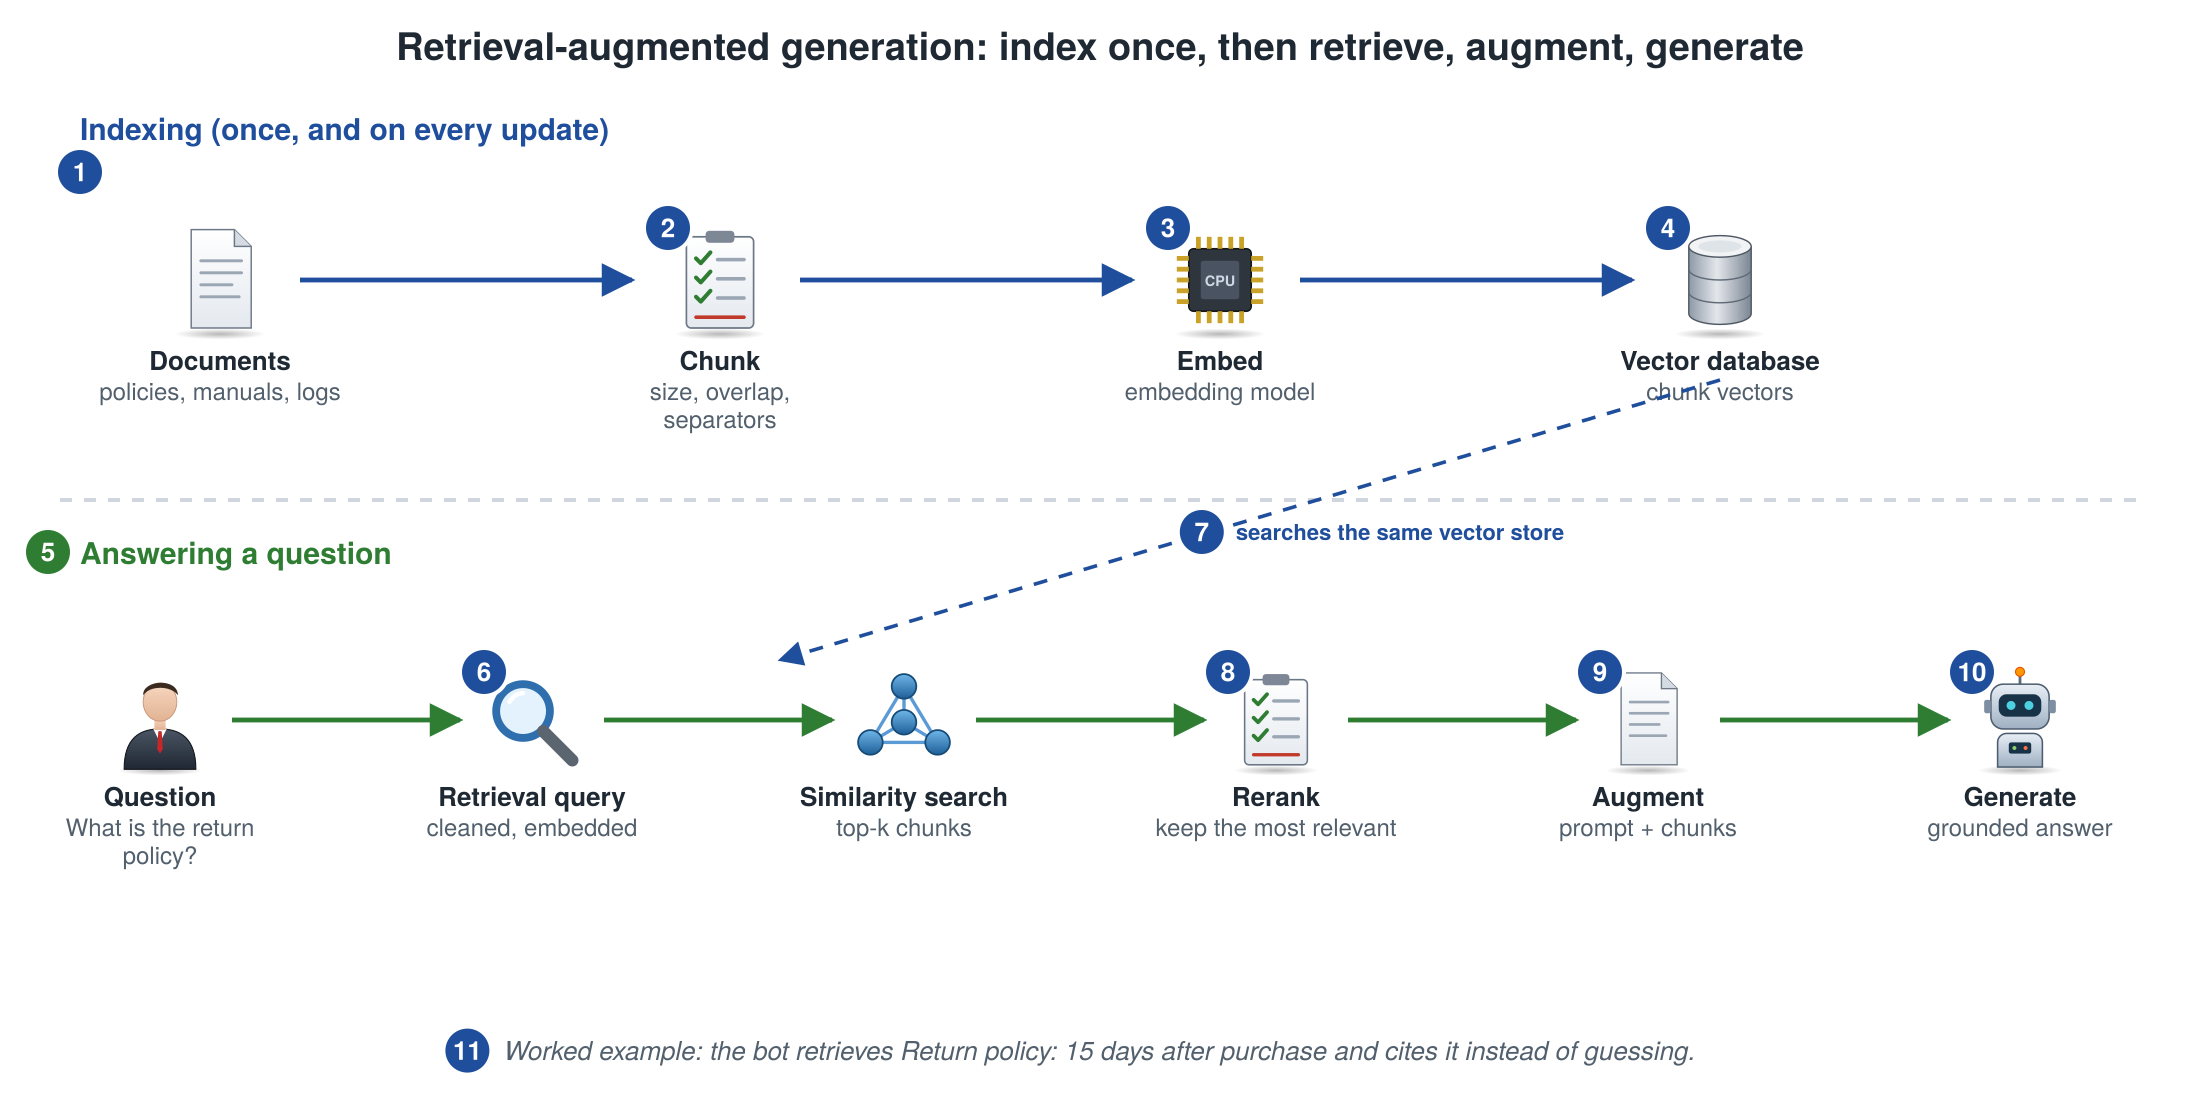
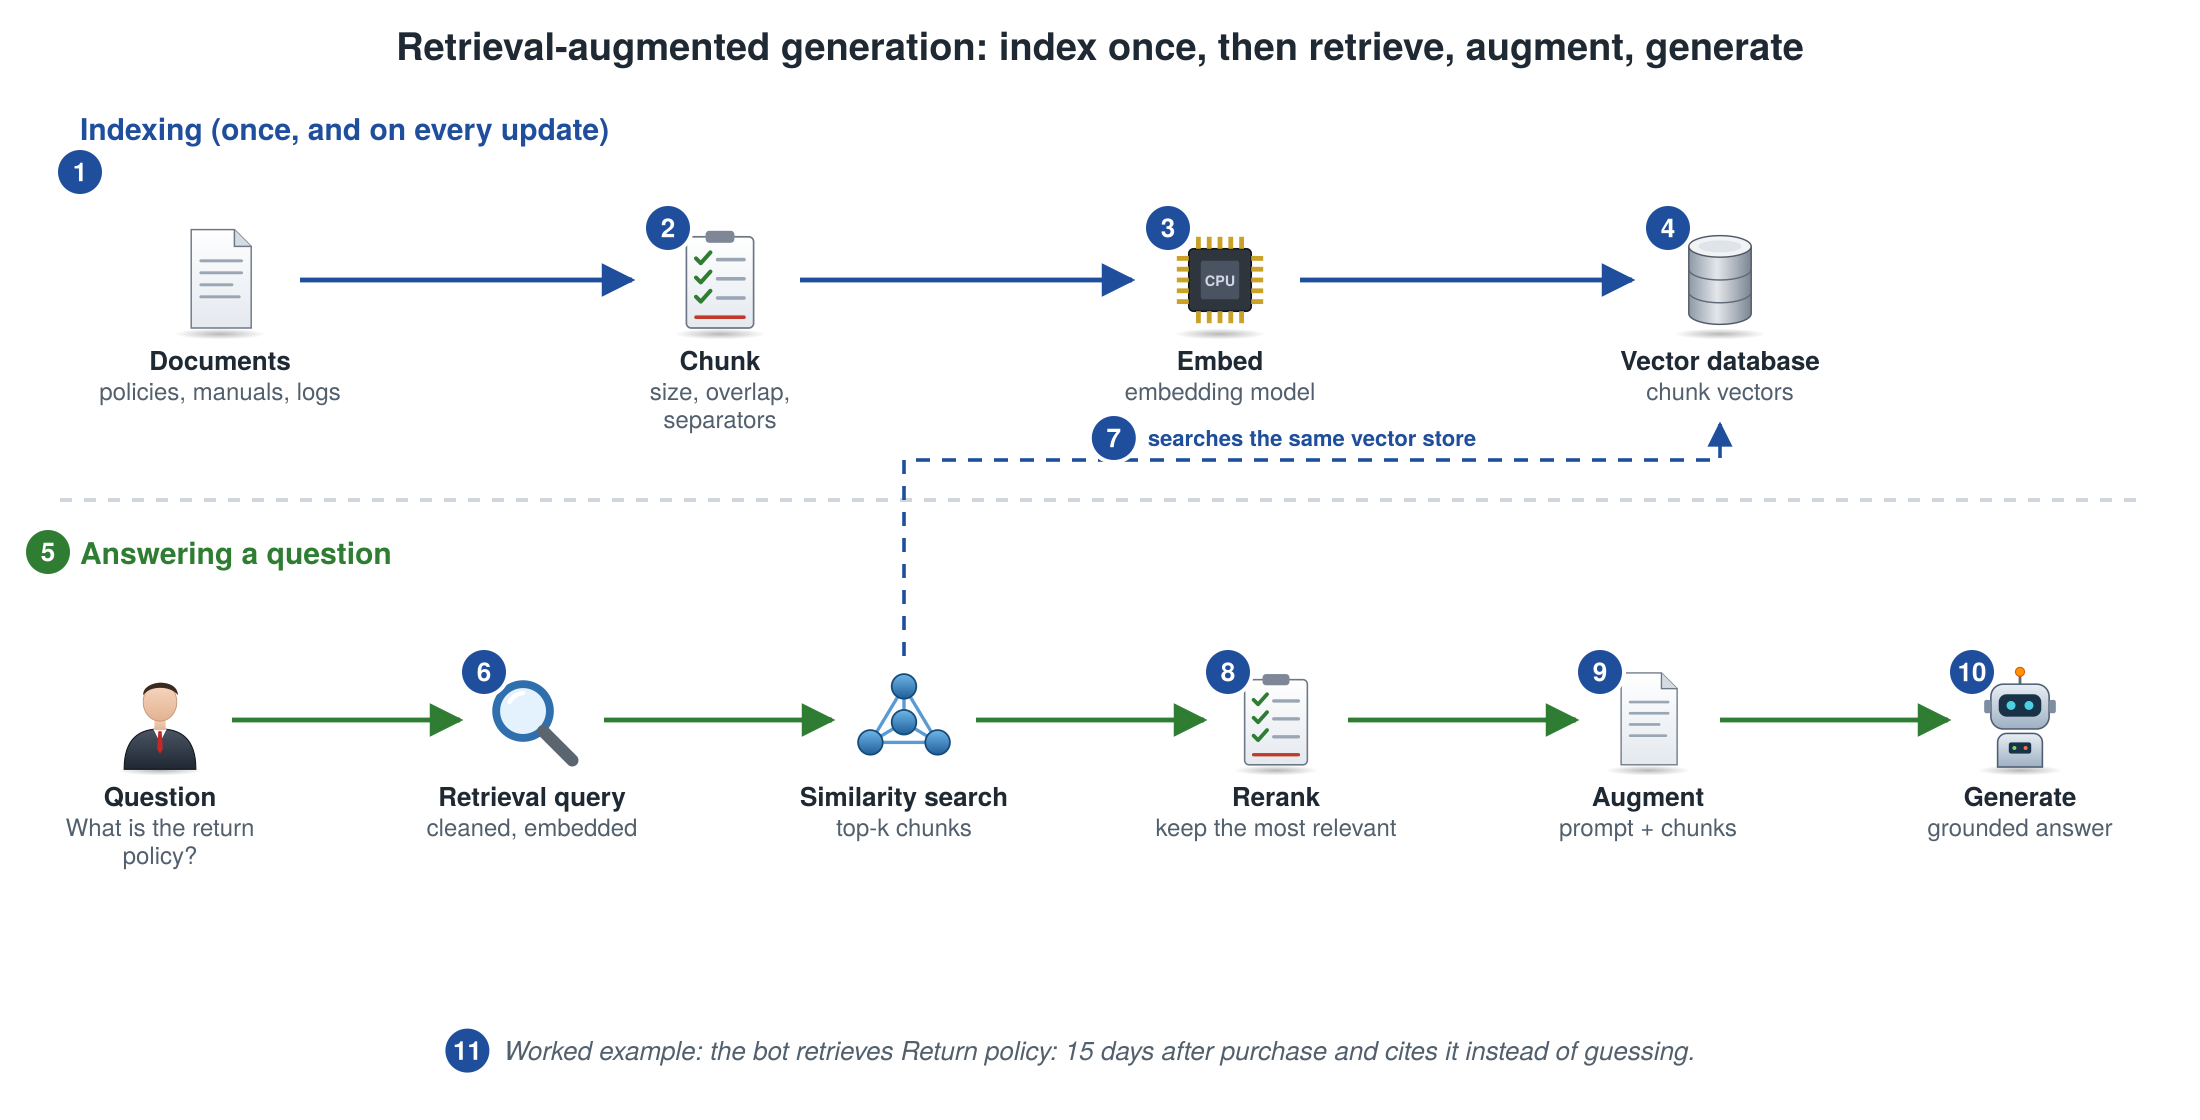
Route the RAG vector-store arrow to its target
The dashed arrow from similarity search started on the chunk vectors
label and crossed its own caption. It now runs at right angles from the
top of similarity search to the vector database, with the label on the
horizontal run. The figure engine now records elements and arrows for
the arrow audit.

Claude-Session: https://claude.ai/code/session_013cDUifwJv1iFP1PFHsLGvp

diff --git a/tools/figures/fig.py b/tools/figures/fig.py
@@ -1,7 +1,7 @@
 """Compose book figures from icons, boxes, arrows, and numbered steps.
 Each element can carry a step number; the SVG builds in step order once,
 like a slide build, and shows everything at once when motion is reduced."""
-import html, math, subprocess
+import os, html, math, subprocess
 import icons
 
 FONT = "Helvetica, Arial, sans-serif"
@@ -32,8 +32,10 @@ class Fig:
         # Every build step carries a numbered badge. Steps the source leaves unnumbered get one
         # at save time, beside the step's first box, label, or icon (see _fill_badges).
         self.anchors, self.badged, self.steps, self.auto_badges = {}, set(), set(), True
+        self.elems, self.arrows = [], []   # every drawn element and arrow, for the arrow audit (ARROW_AUDIT)
 
     def _anchor(self, step, *a):
+        self.elems.append(a)
         if step: self.anchors.setdefault(step, []).append(a)
 
     def _add(self, svg, step):
@@ -49,10 +51,11 @@ class Fig:
         ty = y + size/2 + 15
         if label:
             s += self._text(x, ty, label, label_size, label_color, "bold")
+            self.elems.append(("text", x, ty, label_size, "middle", label, "bold", label_color))
             ty += label_size + 2
         if sub:
             for line in sub.split("\n"):
-                s += self._text(x, ty, line, 12, MUTED); ty += 14
+                s += self._text(x, ty, line, 12, MUTED); self.elems.append(("text", x, ty, 12, "middle", line, "normal", MUTED)); ty += 14
         self._add(s, step)
 
     def _text(self, x, y, t, size=13, color=INK, weight="normal", anchor="middle", italic=False):
@@ -87,6 +90,7 @@ class Fig:
     def arrow(self, pts, label=None, color=INK, step=None, dash=False, width=2.2, label_at=0.5, label_dy=-8,
               label_color=None, both=False, size=13, label_anchor="middle"):
         self.colors.add(color)
+        self.arrows.append({"pts": [list(p) for p in pts], "both": both, "label": label, "step": step})
         segs0 = list(zip(pts, pts[1:])); L0 = [math.dist(a, b) for a, b in segs0]; half, acc0 = sum(L0) / 2, 0
         for (a, b), L in zip(segs0, L0):
             if acc0 + L >= half:
@@ -121,7 +125,26 @@ class Fig:
              + self._text(x, y + 4.6, str(n), 13, "#fff", "bold"))
         self._add(s, step if step is not None else n)
 
-    def raw(self, svg, step=None): self._add(svg, step)
+    def raw(self, svg, step=None):
+        self._raw_shapes(svg)
+        self._add(svg, step)
+
+    def _raw_shapes(self, svg):
+        """Record the plain shapes inside hand-written SVG so the arrow audit can see them."""
+        import re
+        num = lambda tag, k: float(re.search(rf'\b{k}="(-?[\d.]+)"', tag).group(1)) if re.search(rf'\b{k}="(-?[\d.]+)"', tag) else None
+        for tag in re.findall(r'<(?:rect|image|use)\b[^>]*>', svg):
+            x, y, w, h = (num(tag, k) for k in ("x", "y", "width", "height"))
+            if None not in (x, y, w, h): self.elems.append(("rect", x, y, w, h))
+        for tag in re.findall(r'<line\b[^>]*>', svg):
+            v = [num(tag, k) for k in ("x1", "y1", "x2", "y2")]
+            if None not in v: self.elems.append(("line", [[v[0], v[1]], [v[2], v[3]]]))
+        for tag in re.findall(r'<circle\b[^>]*>', svg):
+            cx, cy, r = (num(tag, k) for k in ("cx", "cy", "r"))
+            if None not in (cx, cy, r): self.elems.append(("circ", cx, cy, r * 1.5))
+        for pts in re.findall(r'<poly(?:line|gon)\b[^>]*points="([^"]+)"', svg):
+            xy = [float(v) for v in re.split(r'[ ,]+', pts.strip()) if v]
+            self.elems.append(("line", [[xy[i], xy[i + 1]] for i in range(0, len(xy) - 1, 2)]))
 
     def svg(self):
         markers = "".join(
@@ -179,6 +202,13 @@ class Fig:
 
     def save(self, path_no_ext, png_width=None):
         if self.auto_badges: self._fill_badges()
+        if os.environ.get("ARROW_AUDIT"):
+            import json
+            el = [list(e[:3]) + [e[3], e[4] if len(e) > 4 else None, str(e[5]) if len(e) > 5 else None, e[6] if len(e) > 6 else None]
+                  if e[0] == "text" else list(e[:5]) if e[0] in ("box", "rect") else list(e[:4]) for e in self.elems]
+            with open(os.environ["ARROW_AUDIT"], "a") as fh:
+                fh.write(json.dumps({"fig": os.path.basename(path_no_ext), "w": self.w, "h": self.h,
+                                     "elems": el, "arrows": self.arrows}) + "\n")
         open(path_no_ext + ".svg", "w").write(self.svg())
         subprocess.run(["rsvg-convert", "-w", str(png_width or self.w * 2), path_no_ext + ".svg",
                         "-o", path_no_ext + ".png"], check=True)
@@ -203,6 +233,7 @@ def _card(self, x, y, w, h, icon, title, sub=None, color=BLUE, step=None, icon_s
 Fig.card = _card
 
 def _poly(self, pts, fill="none", stroke=INK, width=2, step=None, opacity=1, dash=False):
+    self.elems.append(("line", [list(p) for p in pts] + [list(pts[0])]))
     d = ' stroke-dasharray="7 5"' if dash else ""
     self._add(f'<polygon points="{" ".join(f"{a:.1f},{b:.1f}" for a, b in pts)}" fill="{fill}" stroke="{stroke}" '
               f'stroke-width="{width}" fill-opacity="{opacity}"{d}/>', step)

diff --git a/tools/figures/bk_new_a.py b/tools/figures/bk_new_a.py
@@ -21,7 +21,7 @@ q = [("user", "Question", "What is the return\npolicy?"), ("search", "Retrieval 
 for i, (ic, name, sub) in enumerate(q):
     x = 80 + i * 186; r.icon(ic, x, 360, 56, name, sub, step=5 + i, label_size=13)
     if i < 5: r.arrow([(x + 36, 360), (x + 150, 360)], None, GREEN, step=6 + i, width=2.4)
-r.arrow([(860, 190), (390, 330)], None, BLUE, step=7, dash=True, width=1.8); r.text(700, 270, "searches the same vector store", 11, BLUE, "bold", step=7)
+r.arrow([(452, 328), (452, 230), (860, 230), (860, 212)], None, BLUE, step=7, dash=True, width=1.8); r.text(656, 223, "searches the same vector store", 11, BLUE, "bold", step=7)
 r.text(550, 530, "Worked example: the bot retrieves Return policy: 15 days after purchase and cites it instead of guessing.", 13, MUTED, italic=True, step=11)
 r.save(OUT + "bk_rag")
 
